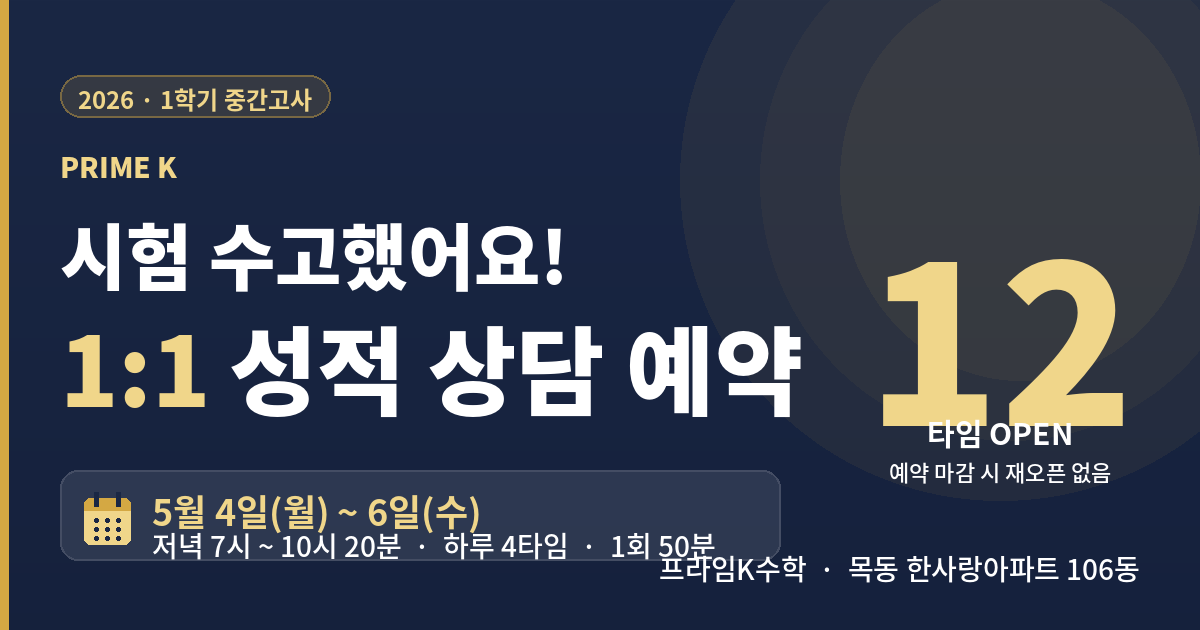
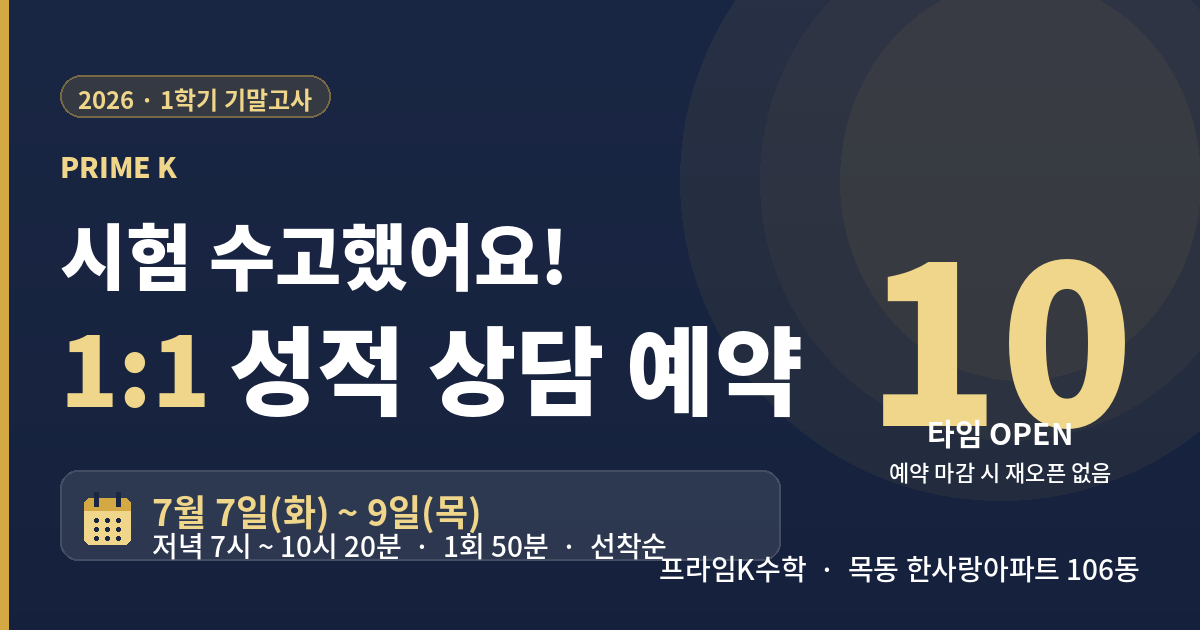
Add files via upload

diff --git a/consult-booking.html b/consult-booking.html
@@ -7,7 +7,7 @@
 <meta name="theme-color" content="#1a2744">
 <meta property="og:type" content="website">
 <meta property="og:title" content="프라임K수학 · 1:1 성적 상담 예약">
-<meta property="og:description" content="5월 4일(월) ~ 6일(수) 저녁 · 12타임 운영 · 시험 수고했어요!">
+<meta property="og:description" content="7월 7일(화) ~ 9일(목) 저녁 · 10타임 운영 · 시험 수고했어요!">
 <meta property="og:image" content="https://trmaximumk-afk.github.io/prime-k-notice/og-consult.png">
 <meta property="og:image:width" content="1200">
 <meta property="og:image:height" content="630">
@@ -15,7 +15,7 @@
 <meta property="og:locale" content="ko_KR">
 <meta name="twitter:card" content="summary_large_image">
 <meta name="twitter:title" content="프라임K수학 · 1:1 성적 상담 예약">
-<meta name="twitter:description" content="5월 4일(월) ~ 6일(수) 저녁 · 12타임 운영">
+<meta name="twitter:description" content="7월 7일(화) ~ 9일(목) 저녁 · 10타임 운영">
 <meta name="twitter:image" content="https://trmaximumk-afk.github.io/prime-k-notice/og-consult.png">
 <title>프라임K수학 · 1:1 성적 상담 예약</title>
 <link href="https://fonts.googleapis.com/css2?family=Noto+Sans+KR:wght@400;500;700;900&display=swap" rel="stylesheet">
@@ -509,7 +509,7 @@
       <span class="conn-dot connecting" id="connDot"></span>
       <span id="connText">연결중</span>
     </div>
-    <div class="badge">2026 · 1학기 중간고사</div>
+    <div class="badge">2026 · 1학기 기말고사</div>
     <p class="hero-brand">프라임K수학</p>
     <h1>시험 <em>수고했어요</em>!<br>1:1 성적 상담 예약</h1>
     <p class="sub">고1 · 고2 · 고3 대상</p>
@@ -533,8 +533,8 @@
       <div class="card-header"><span class="emoji">📅</span> 상담 일정</div>
       <div class="card-body">
         <p class="desc">
-          <strong>5월 4일(월) ~ 6일(수)</strong> 저녁<br>
-          하루 4타임 · 1회 <strong>50분</strong> · 총 <strong>12타임</strong> 운영<br>
+          <strong>7월 7일(화) ~ 9일(목)</strong> 저녁<br>
+          1회 <strong>50분</strong> · 총 <strong>10타임</strong> 운영<br>
           원하는 요일과 시간을 <strong>1개</strong> 선택해주세요.
         </p>
       </div>
@@ -641,17 +641,19 @@ const sb = createClient(SUPABASE_URL, SUPABASE_KEY);
 // slot_id 형식: YYYYMMDD-HHMM
 // 다음 시험기간 재사용 시 SLOT_DATES만 변경
 const SLOT_DATES = {
-  mon: '20260504',
-  tue: '20260505',
-  wed: '20260506'
+  tue: '20260707',
+  wed: '20260708',
+  thu: '20260709'
 };
 
+// 요일마다 열리는 타임이 다름 → 각 날짜에 timeIds 지정
 const DAYS = [
-  { id: 'mon', name: '월요일', short: '월', date: '5월 4일' },
-  { id: 'tue', name: '화요일', short: '화', date: '5월 5일' },
-  { id: 'wed', name: '수요일', short: '수', date: '5월 6일' }
+  { id: 'tue', name: '화요일', short: '화', date: '7월 7일', timeIds: ['1900', '1950', '2040', '2130'] },
+  { id: 'wed', name: '수요일', short: '수', date: '7월 8일', timeIds: ['1900', '1950', '2040', '2130'] },
+  { id: 'thu', name: '목요일', short: '목', date: '7월 9일', timeIds: ['1900', '2040'] }
 ];
 
+// 전체 타임 정의 (마스터). label은 시작시각 기준으로 표기
 const TIMES = [
   { id: '1900', start: '19:00', end: '19:50', label: '1타임' },
   { id: '1950', start: '19:50', end: '20:40', label: '2타임' },
@@ -659,8 +661,12 @@ const TIMES = [
   { id: '2130', start: '21:30', end: '22:20', label: '4타임' }
 ];
 
+// 총 슬롯 수 (요일별 timeIds 합산)
+const TOTAL_SLOTS = DAYS.reduce((sum, d) => sum + d.timeIds.length, 0);
+
 const STORAGE_KEY = 'consult_student_name';
 const buildSlotId = (dayId, timeId) => `${SLOT_DATES[dayId]}-${timeId}`;
+const getTime = (timeId) => TIMES.find(t => t.id === timeId);
 const parseSlotId = (slotId) => {
   const [date, time] = slotId.split('-');
   const dayEntry = Object.entries(SLOT_DATES).find(([_, d]) => d === date);
@@ -690,7 +696,7 @@ function render() {
   const container = document.getElementById('daysContainer');
   container.innerHTML = '';
 
-  const totalSlots = DAYS.length * TIMES.length;
+  const totalSlots = TOTAL_SLOTS;
   const banner = document.getElementById('allBookedBanner');
   banner.classList.toggle('show', !isLoading && bookedSlotIds.size >= totalSlots);
 
@@ -698,7 +704,8 @@ function render() {
     const card = document.createElement('div');
     card.className = 'card day-card';
 
-    const slotsHtml = TIMES.map(time => {
+    const slotsHtml = day.timeIds.map(timeId => {
+      const time = getTime(timeId);
       const slotId = buildSlotId(day.id, time.id);
       const isBooked = bookedSlotIds.has(slotId);
       const isSelected = selectedSlot === slotId;

diff --git a/consult-admin.html b/consult-admin.html
@@ -629,7 +629,7 @@
         </div>
       </div>
       <h1>1:1 상담 예약 현황</h1>
-      <p class="sub">5월 4일(월) ~ 6일(수) · 12타임</p>
+      <p class="sub">7월 7일(화) ~ 9일(목) · 10타임</p>
     </header>
 
     <main class="content">
@@ -640,7 +640,7 @@
           <div class="stat-label">예약</div>
         </div>
         <div class="stat-card remaining">
-          <div class="stat-num" id="statRemaining">12</div>
+          <div class="stat-num" id="statRemaining">10</div>
           <div class="stat-label">남은자리</div>
         </div>
         <div class="stat-card completed">
@@ -727,14 +727,15 @@ const SESSION_KEY = 'consult_admin_unlocked';
 // 슬롯 설정 (booking 페이지와 동일해야 함)
 // ==============================================================
 const SLOT_DATES = {
-  mon: '20260504',
-  tue: '20260505',
-  wed: '20260506'
+  tue: '20260707',
+  wed: '20260708',
+  thu: '20260709'
 };
+// 요일마다 열리는 타임이 다름 → 각 날짜에 timeIds 지정
 const DAYS = [
-  { id: 'mon', name: '월요일', short: '월', date: '5월 4일' },
-  { id: 'tue', name: '화요일', short: '화', date: '5월 5일' },
-  { id: 'wed', name: '수요일', short: '수', date: '5월 6일' }
+  { id: 'tue', name: '화요일', short: '화', date: '7월 7일', timeIds: ['1900', '1950', '2040', '2130'] },
+  { id: 'wed', name: '수요일', short: '수', date: '7월 8일', timeIds: ['1900', '1950', '2040', '2130'] },
+  { id: 'thu', name: '목요일', short: '목', date: '7월 9일', timeIds: ['1900', '2040'] }
 ];
 const TIMES = [
   { id: '1900', start: '19:00', end: '19:50', label: '1타임' },
@@ -742,7 +743,9 @@ const TIMES = [
   { id: '2040', start: '20:40', end: '21:30', label: '3타임' },
   { id: '2130', start: '21:30', end: '22:20', label: '4타임' }
 ];
+const TOTAL_SLOTS = DAYS.reduce((sum, d) => sum + d.timeIds.length, 0);
 const buildSlotId = (dayId, timeId) => `${SLOT_DATES[dayId]}-${timeId}`;
+const getTime = (timeId) => TIMES.find(t => t.id === timeId);
 const parseSlotId = (slotId) => {
   const [date, time] = slotId.split('-');
   const dayEntry = Object.entries(SLOT_DATES).find(([_, d]) => d === date);
@@ -868,7 +871,7 @@ function subscribeToChanges() {
 // 통계
 // ==============================================================
 function renderStats() {
-  const totalSlots = DAYS.length * TIMES.length;
+  const totalSlots = TOTAL_SLOTS;
   const active = bookings.filter(b => b.status === 'active').length;
   const completed = bookings.filter(b => b.status === 'completed').length;
   const cancelled = bookings.filter(b => b.status === 'cancelled').length;
@@ -905,15 +908,16 @@ function renderSchedule() {
     const group = document.createElement('div');
     group.className = 'day-group';
 
-    const dayBookings = TIMES.map(t => slotMap.get(buildSlotId(day.id, t.id))).filter(b => b && b.status === 'active');
+    const dayBookings = day.timeIds.map(tid => slotMap.get(buildSlotId(day.id, tid))).filter(b => b && b.status === 'active');
     const groupHeader = `
       <div class="day-group-header">
         <span class="day-group-title">${day.name} · ${day.date}</span>
-        <span class="day-group-count">${dayBookings.length} / 4</span>
+        <span class="day-group-count">${dayBookings.length} / ${day.timeIds.length}</span>
       </div>
     `;
 
-    const cardsHtml = TIMES.map(time => {
+    const cardsHtml = day.timeIds.map(timeId => {
+      const time = getTime(timeId);
       const slotId = buildSlotId(day.id, time.id);
       const booking = slotMap.get(slotId);
       const activeBooking = (booking && booking.status === 'active') ? booking : null;